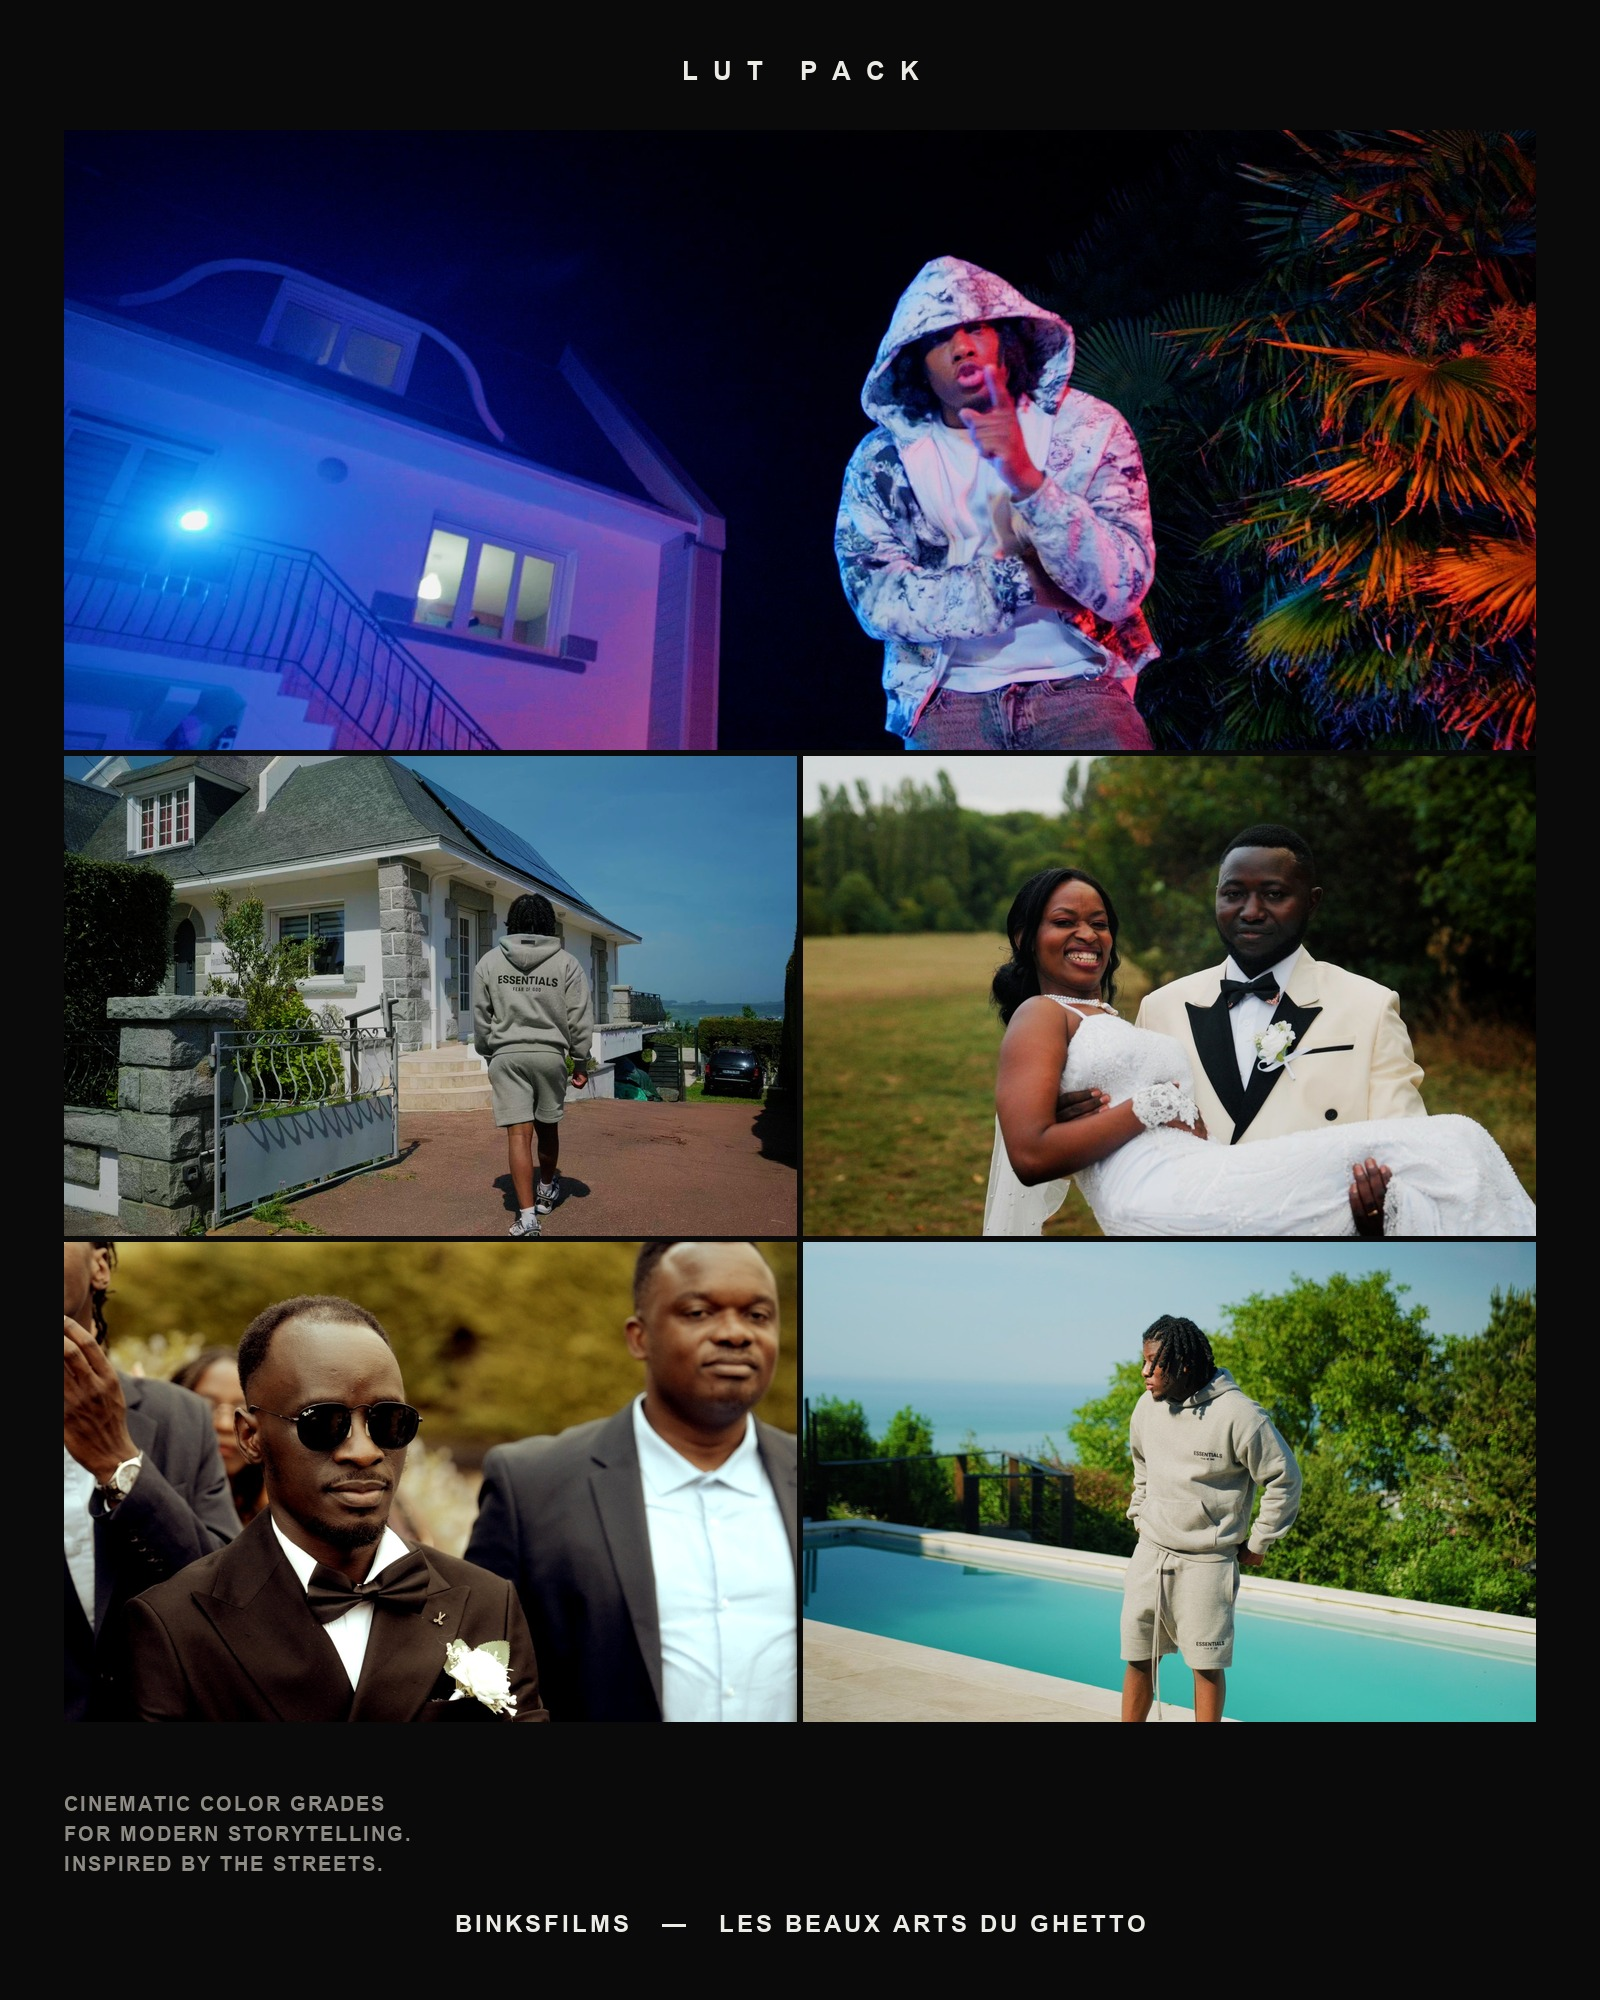
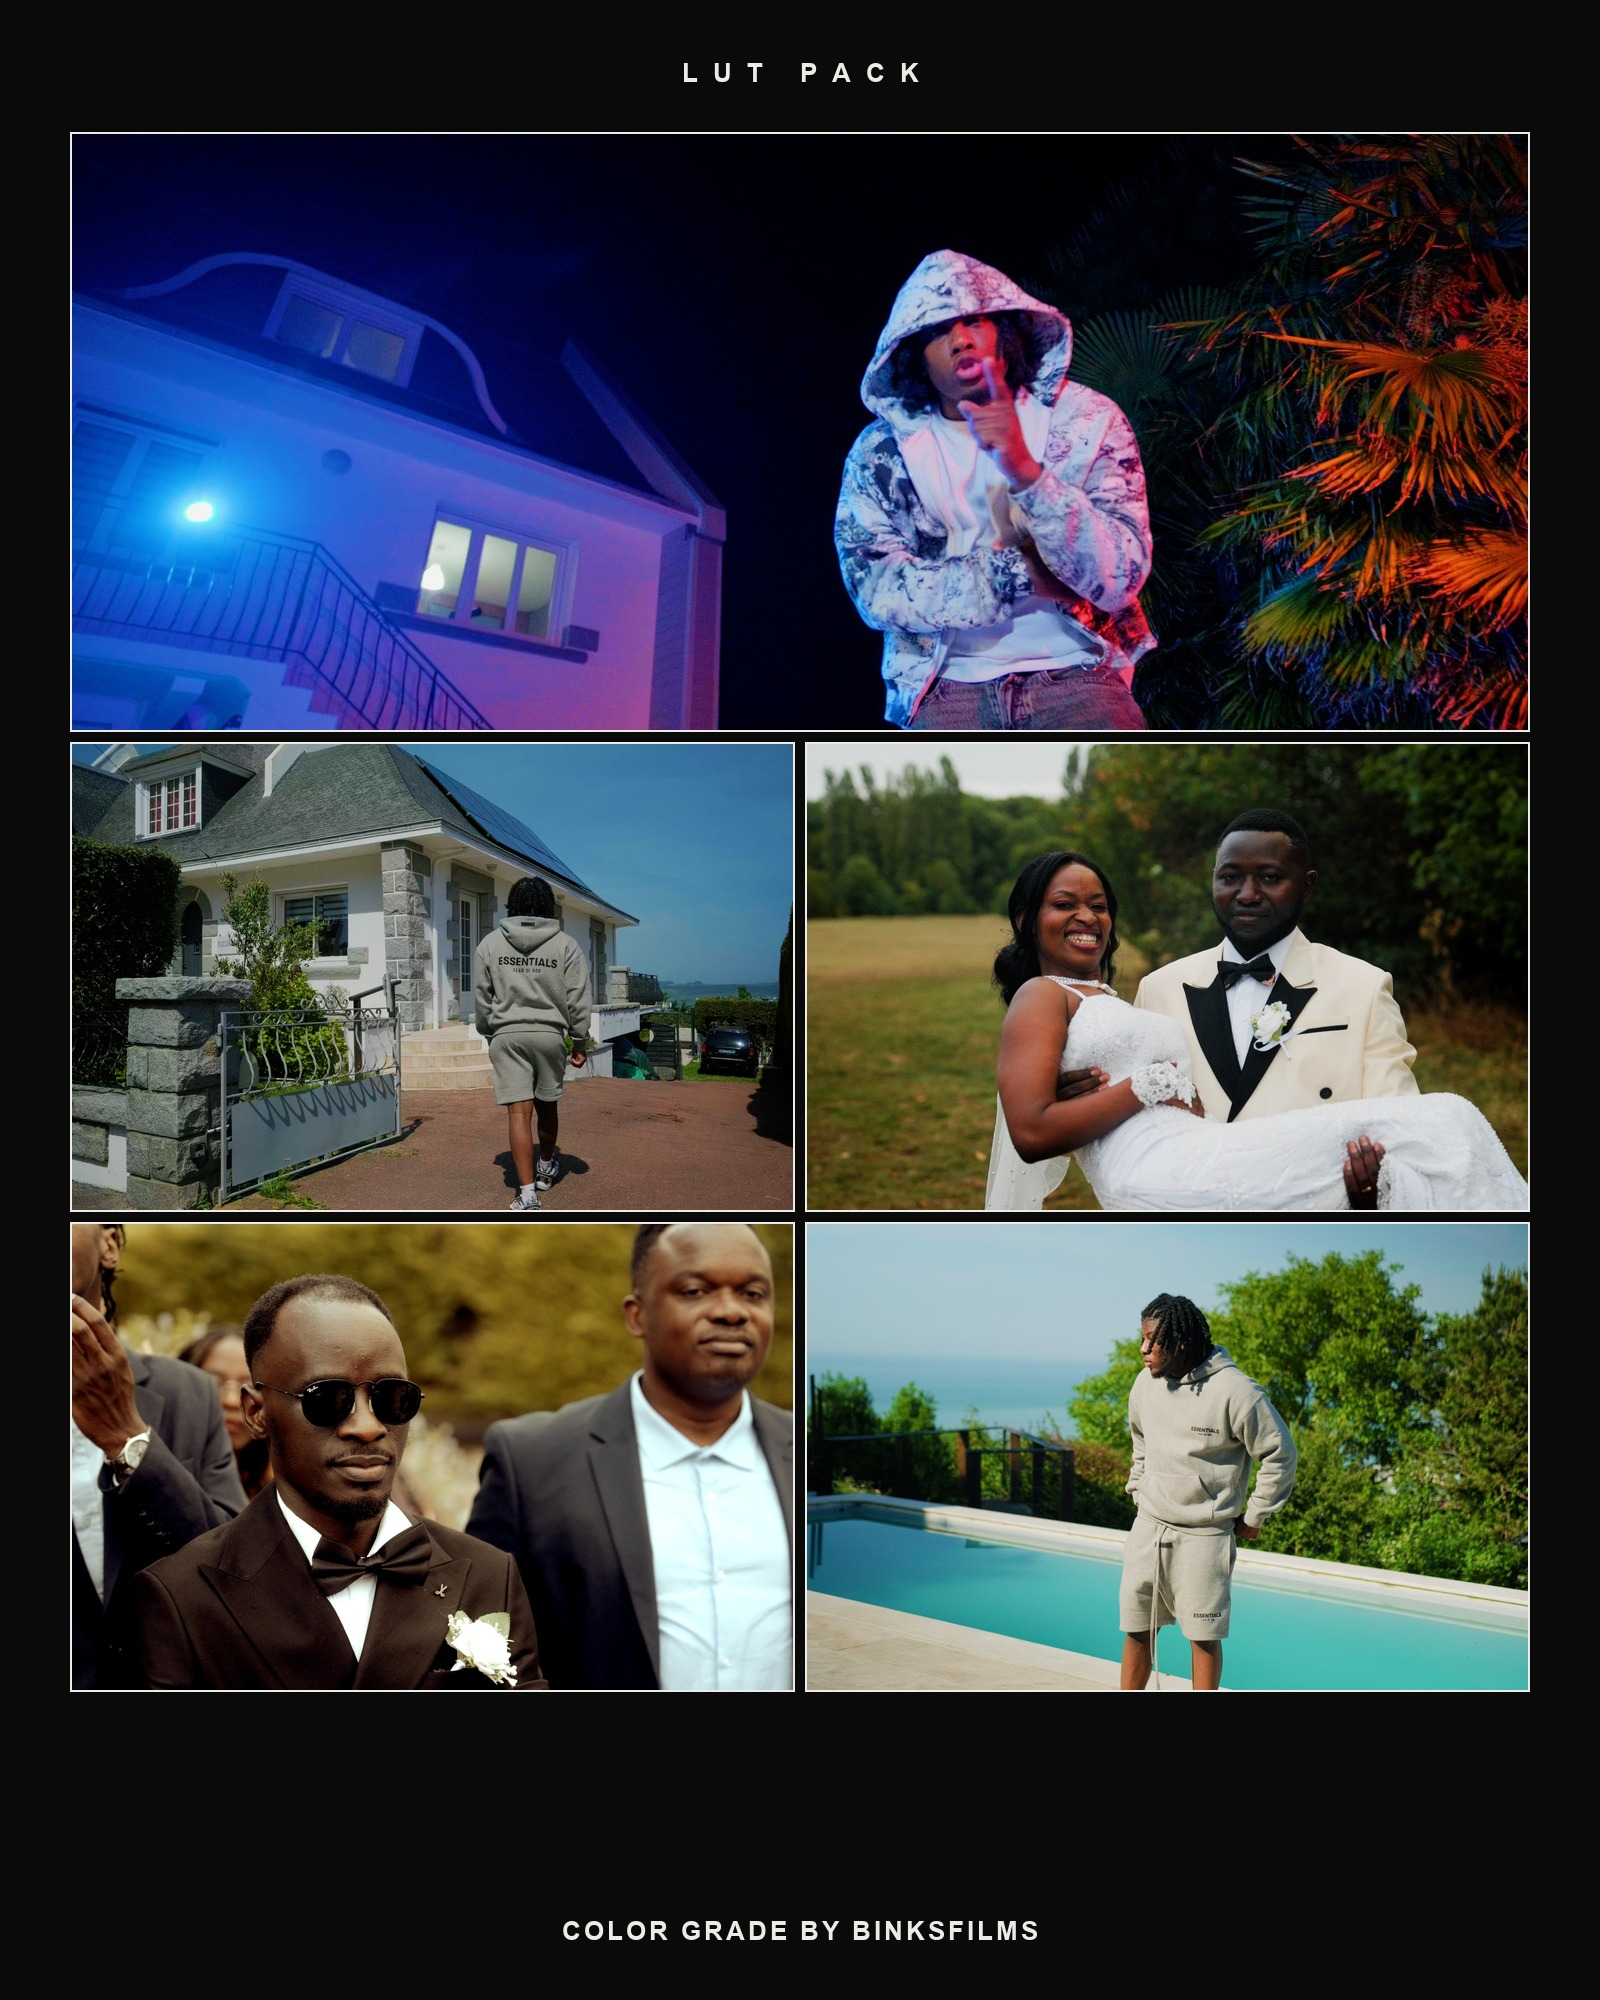
boutique: la boite ne clippe plus, tourne plus vite, dos plus lisible
Sur #/shop, le flottement de la boite (packFloat) et son ombre portee
depassaient d'un padding de 6-10px sous overflow:hidden : elle se
faisait couper en haut par intermittence. Le hero de la page d'ensemble
n'a rien d'autre a masquer (fond transparent, la video vit dans
shop-fond-fixe) : overflow:visible, padding elargi.

Rotation au repos doublee (0.05 -> 0.12 deg/frame).

Face arriere : filets ivoire fins autour de chaque photo au lieu d'un
simple ecart, plus proches du mockup fourni. Le paragraphe de legende
remplace par une seule ligne, "Color grade by Binksfilms".

diff --git a/index.html b/index.html
@@ -834,10 +834,12 @@ body.boutique main#home{display:none}
   min-height:auto;
   margin-bottom:20px;
   padding-top:0;
+  overflow:visible;   /* le packaging flotte et projette une ombre : rien
+                          ici n'a besoin d'etre coupe au bord */
 }
 .shop-index .prod-hero-boite{
   flex:none;
-  padding:10px 0 8px;
+  padding:22px 0 20px;
 }
 .shop-index .prod-hero-sous{
   margin-top:0;
@@ -849,7 +851,7 @@ body.boutique main#home{display:none}
 @media(max-width:760px){
   .shop-index .prod-hero,
   .shop-index .prod-hero.a-boite{min-height:auto}
-  .shop-index .prod-hero-boite{padding-top:6px}
+  .shop-index .prod-hero-boite{padding:18px 0 16px}
 }
 
 .rideaux-multi{display:grid;gap:2px}
@@ -2340,7 +2342,7 @@ function brancherBoite(racine){
   var idle = !reduced;
   function tourner(){
     if(!idle || tenu) return;
-    ry += 0.05; poser();
+    ry += 0.12; poser();
     requestAnimationFrame(tourner);
   }
   if(idle) requestAnimationFrame(tourner);
